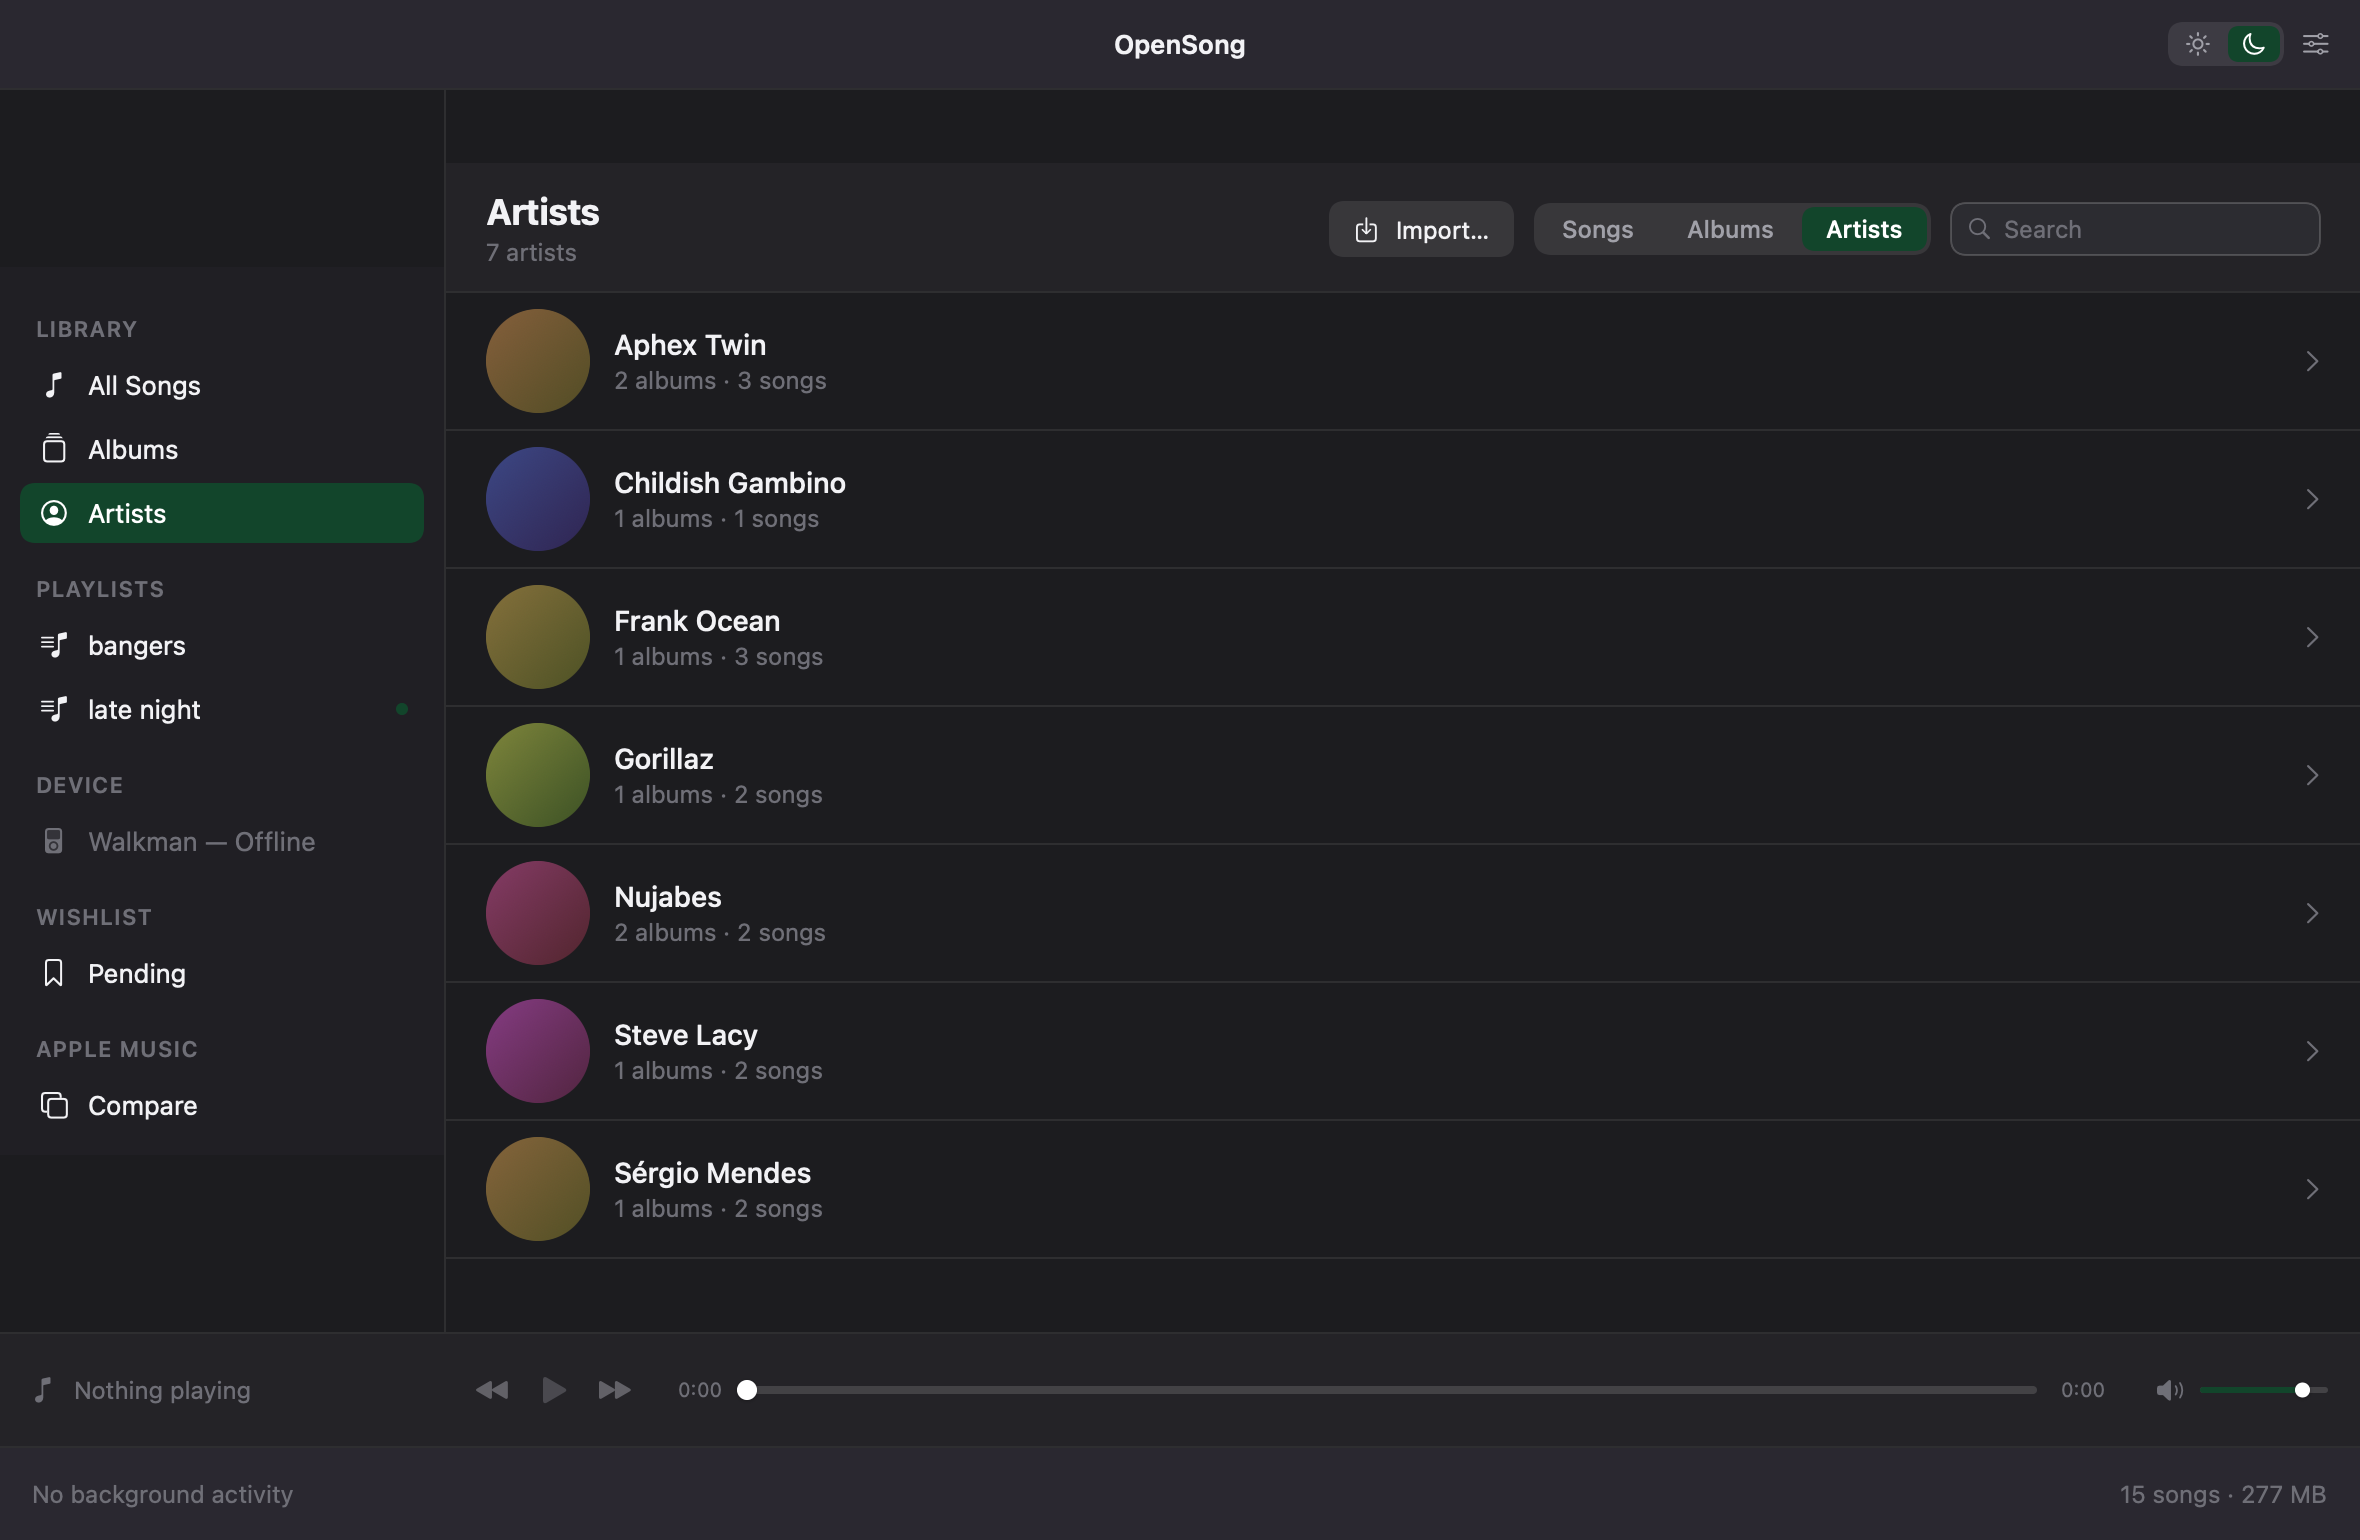
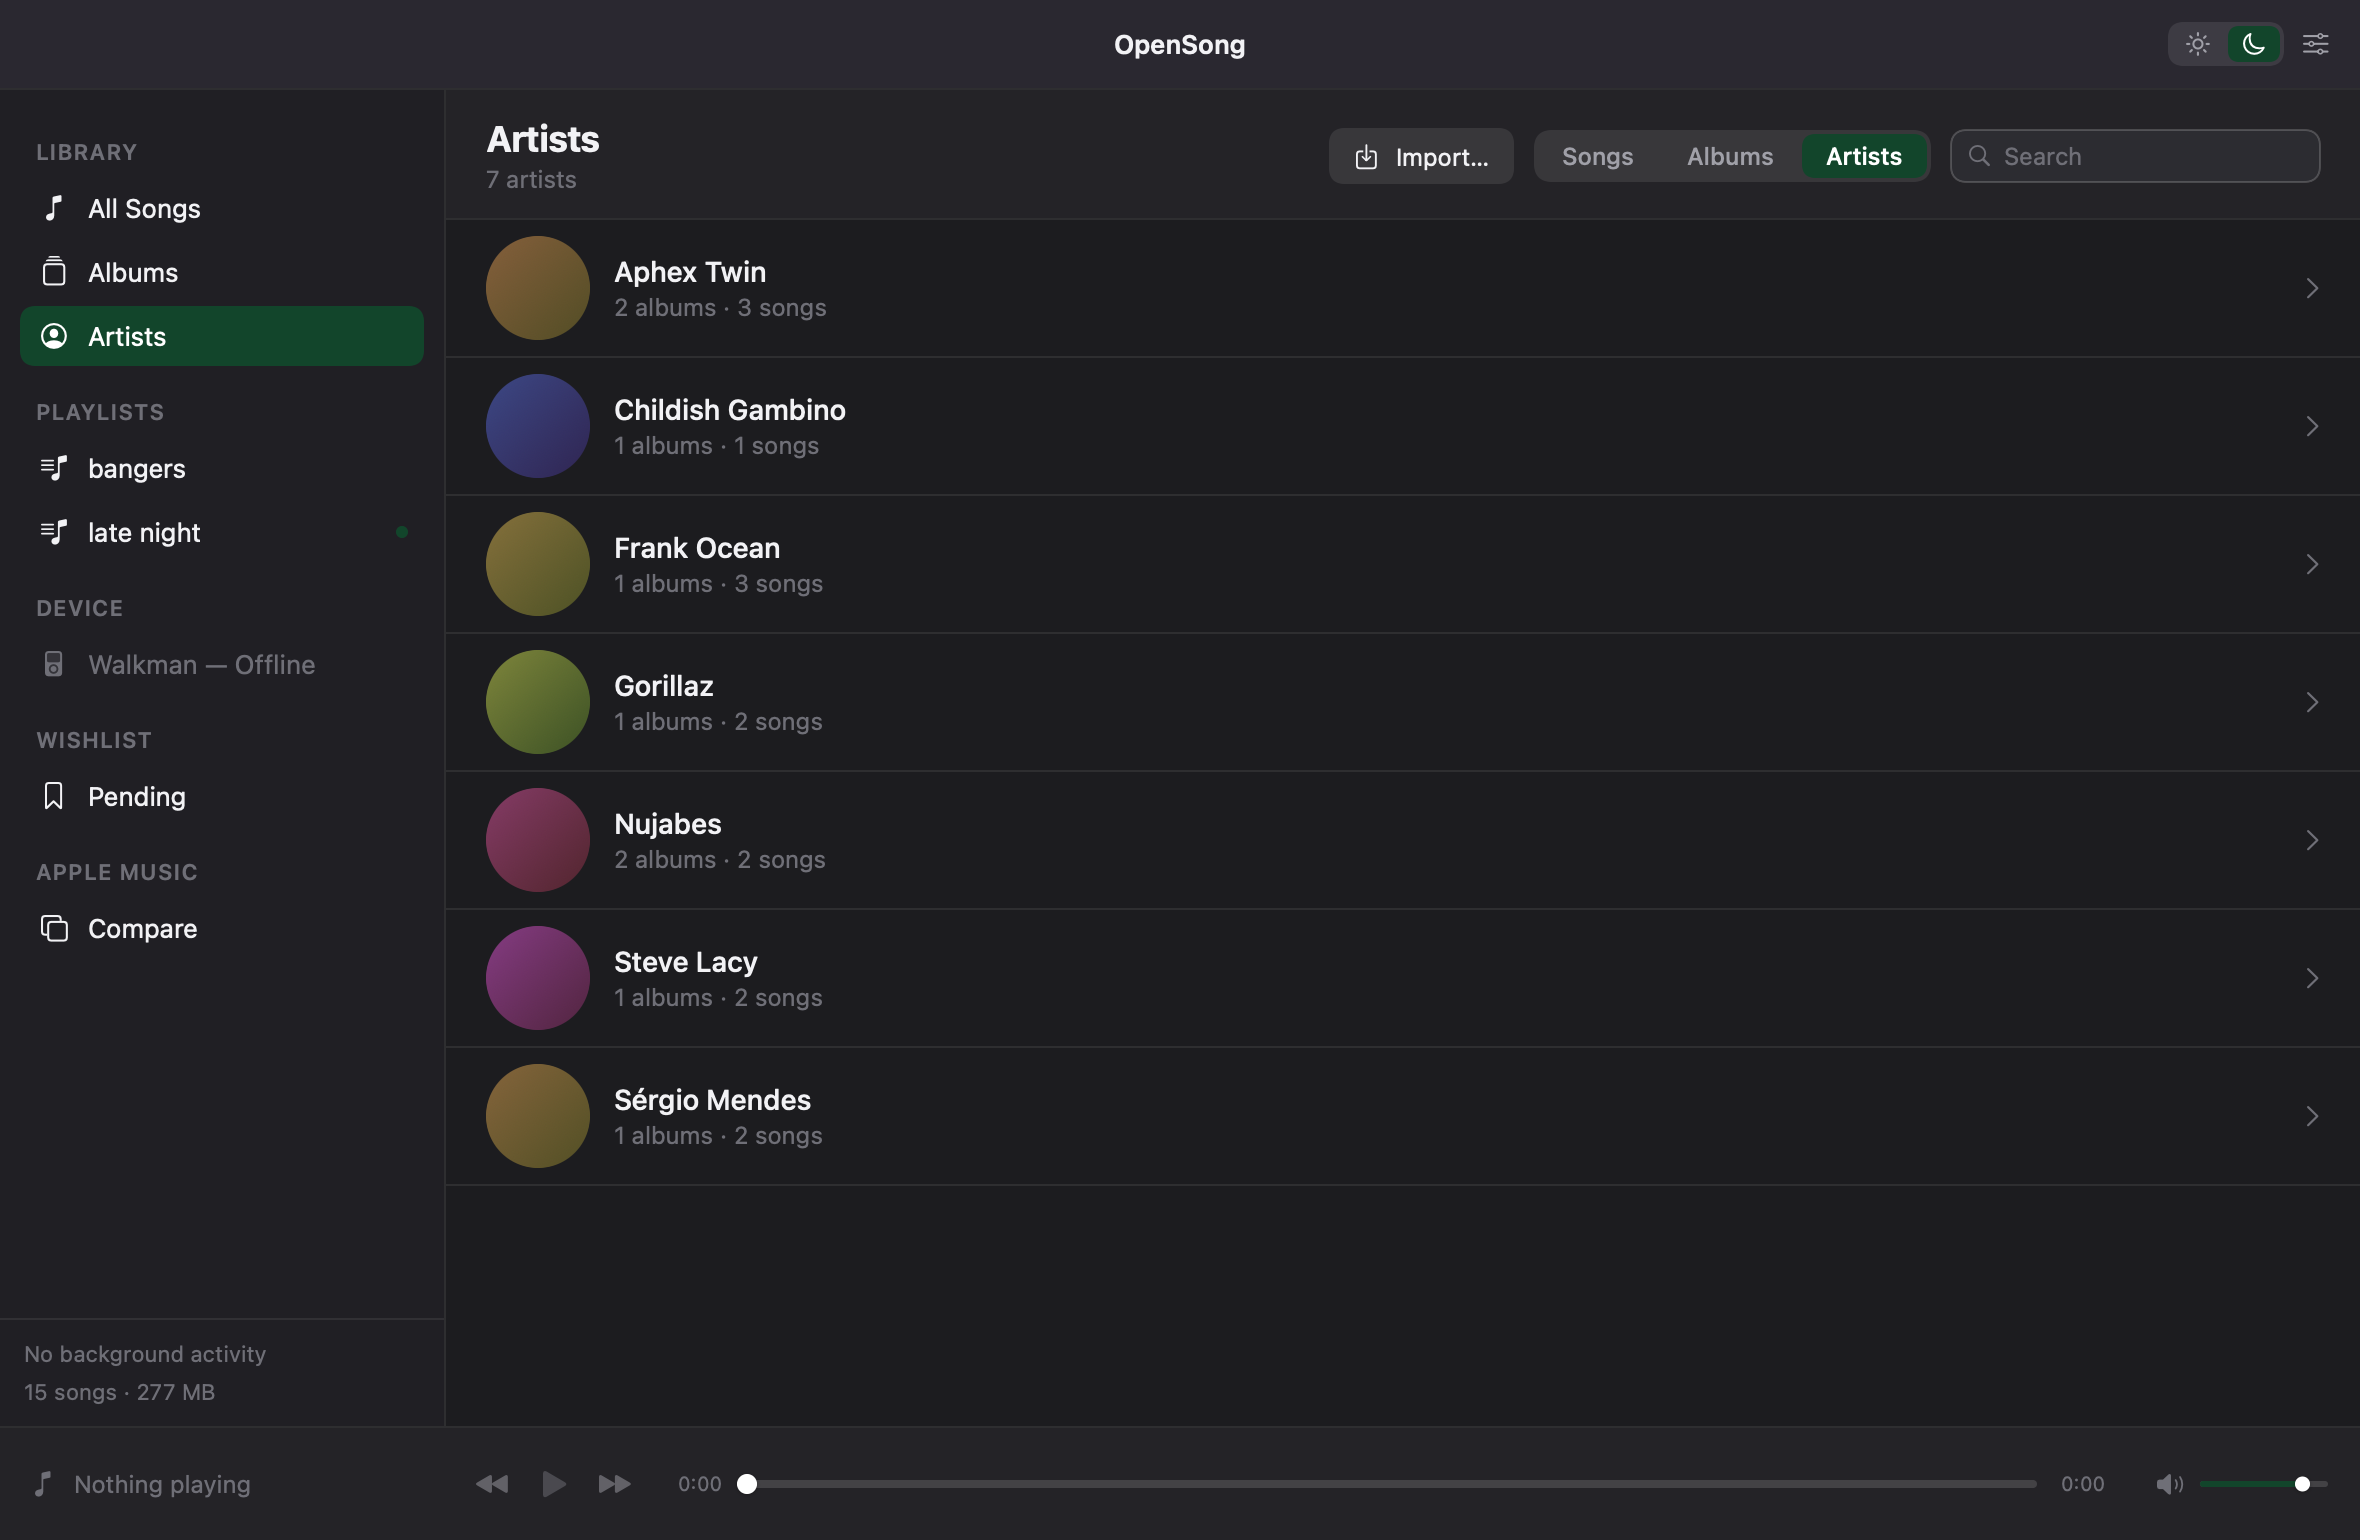
feat: move activity bar into sidebar footer; render-mode top-align fix (v0.2.1)
- Activity status + library totals now sit at the bottom of the sidebar (SidebarFooter);
  removed the full-width bottom bar (player bar stays full width)
- Remove inner RootView .ignoresSafeArea (kept only outermost in OpenSongApp for the
  window titlebar); render-mode ScrollOrStack top-aligns so screenshots match the app

diff --git a/Sources/OpenSong/Chrome.swift b/Sources/OpenSong/Chrome.swift
@@ -45,28 +45,27 @@ struct TitleBar: View {
     }
 }
 
-/// Persistent bottom activity bar.
-struct ActivityBar: View {
+/// Compact activity + library-totals footer at the bottom of the sidebar.
+struct SidebarFooter: View {
     @Environment(AppStore.self) private var store
     @Environment(\.theme) private var theme
 
     var body: some View {
-        HStack(spacing: 12) {
+        VStack(alignment: .leading, spacing: 5) {
             if store.activity.isEmpty {
-                Text("No background activity").font(.system(size: 12)).foregroundStyle(theme.text3)
+                Text("No background activity").font(.system(size: 11)).foregroundStyle(theme.text3)
             } else {
                 ForEach(store.activity) { task in
-                    HStack(spacing: 8) {
-                        Text(task.label).font(.system(size: 12)).foregroundStyle(theme.text2)
-                        ProgressBar(value: task.progress).frame(width: 90)
+                    VStack(alignment: .leading, spacing: 3) {
+                        Text(task.label).font(.system(size: 11)).foregroundStyle(theme.text2).lineLimit(1)
+                        ProgressBar(value: task.progress).frame(height: 3)
                     }
                 }
             }
-            Spacer()
-            Text(store.libraryTotalsLabel).font(.system(size: 12)).foregroundStyle(theme.text3)
+            Text(store.libraryTotalsLabel).font(.system(size: 11)).foregroundStyle(theme.text3).lineLimit(1)
         }
-        .padding(.horizontal, 16)
-        .frame(height: 46)
-        .background(theme.titlebar)
+        .frame(maxWidth: .infinity, alignment: .leading)
+        .padding(.horizontal, 12).padding(.vertical, 10)
+        .background(theme.sidebar)
     }
 }

diff --git a/Sources/OpenSong/RootView.swift b/Sources/OpenSong/RootView.swift
@@ -44,9 +44,13 @@ struct RootView: View {
             TitleBar()
             Divider().overlay(theme.sep)
             HStack(spacing: 0) {
-                Sidebar()
-                    .frame(width: 222)
-                    .background(theme.sidebar)
+                VStack(spacing: 0) {
+                    Sidebar().frame(maxHeight: .infinity)
+                    Divider().overlay(theme.sep)
+                    SidebarFooter()
+                }
+                .frame(width: 222)
+                .background(theme.sidebar)
                 Divider().overlay(theme.sep)
                 content
                     .frame(maxWidth: .infinity, maxHeight: .infinity)
@@ -54,11 +58,8 @@ struct RootView: View {
             }
             Divider().overlay(theme.sep)
             PreviewPlayerBar(model: store.player)
-            Divider().overlay(theme.sep)
-            ActivityBar()
         }
         .background(theme.content)
-        .ignoresSafeArea()   // fill under the window titlebar (custom TitleBar sits at y=0)
         .background(WindowConfigurator())
         .sheet(item: Binding(get: { store.openSheet }, set: { store.openSheet = $0 })) { sheet in
             switch sheet {

diff --git a/Sources/OpenSong/UIHelpers.swift b/Sources/OpenSong/UIHelpers.swift
@@ -11,7 +11,9 @@ struct ScrollOrStack<C: View>: View {
     @ViewBuilder var content: C
     var body: some View {
         if renderMode {
-            VStack(alignment: alignment, spacing: 0) { content }
+            // Trailing spacer so render-mode content top-aligns like the real ScrollView
+            // (otherwise a maxHeight frame vertically-centers it → spurious gaps).
+            VStack(alignment: alignment, spacing: 0) { content; Spacer(minLength: 0) }
         } else {
             // LazyVStack so off-screen rows don't run their artwork-extraction .task.
             ScrollView { LazyVStack(alignment: alignment, spacing: 0) { content } }
